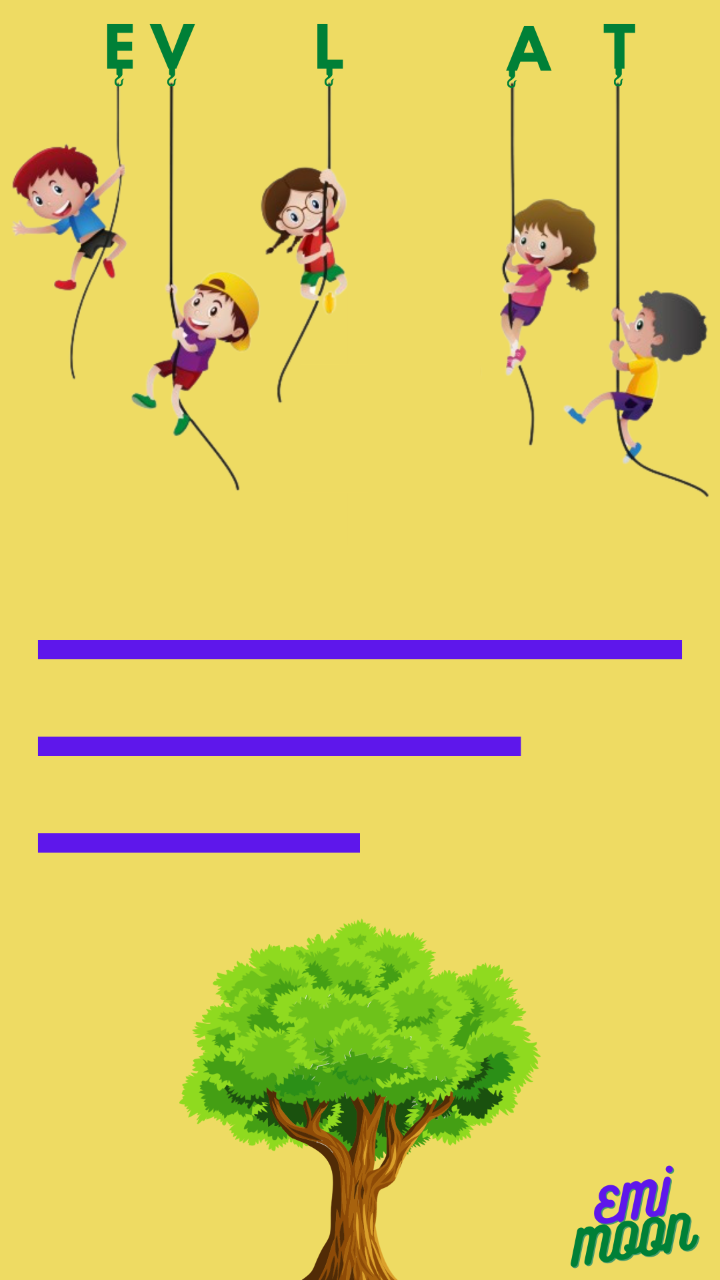
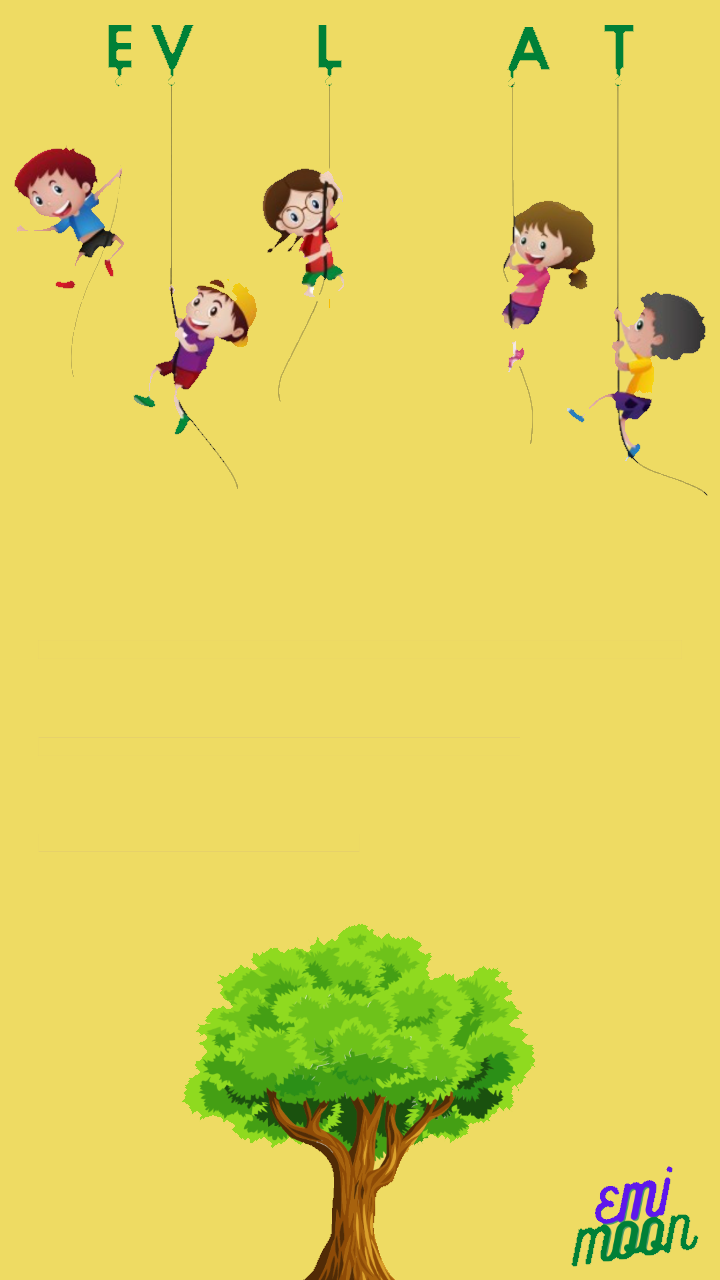
Main Page Tasarımı düzeltildi/07.02.2021/18.01

diff --git a/lib/screens/main_page.dart b/lib/screens/main_page.dart
@@ -28,13 +28,16 @@ class MainPage extends StatelessWidget {
                 MaterialPageRoute(builder: (context) => EgitimPage()),
               );
             },
-            child: Text(
-              'EĞİTİM',
-              style: kMainPageButtonTextStyle
-            ),
+            child: Text('EĞİTİM', style: kMainPageButtonTextStyle),
           ),
-          SizedBox(
-            height: 7,
+          Container(
+            height: 12,
+            width: 400,
+            color: kPurpleColor,
+            child: Text(
+              '',
+              style: TextStyle(fontSize: 5),
+            ),
           ),
           FlatButton(
             onPressed: () {
@@ -43,13 +46,16 @@ class MainPage extends StatelessWidget {
                 MaterialPageRoute(builder: (context) => OyunlarPage()),
               );
             },
-            child: Text(
-              'OYUNLAR',
-              style: kMainPageButtonTextStyle
-            ),
+            child: Text('OYUNLAR', style: kMainPageButtonTextStyle),
           ),
-          SizedBox(
-            height: 7,
+          Container(
+            height: 12,
+            width: 300,
+            color: kPurpleColor,
+            child: Text(
+              '',
+              style: TextStyle(fontSize: 5),
+            ),
           ),
           FlatButton(
             onPressed: () {
@@ -58,13 +64,19 @@ class MainPage extends StatelessWidget {
                 MaterialPageRoute(builder: (context) => HakkimizdaPage()),
               );
             },
+            child: Text('HAKKIMIZDA', style: kMainPageButtonTextStyle),
+          ),
+          Container(
+            height: 12,
+            width: 200,
+            color: kPurpleColor,
             child: Text(
-              'HAKKIMIZDA',
-              style: kMainPageButtonTextStyle
+              '',
+              style: TextStyle(fontSize: 5),
             ),
           ),
           SizedBox(
-            height: 80,
+            height: 70,
           ),
           FlatButton(
             onPressed: () {
